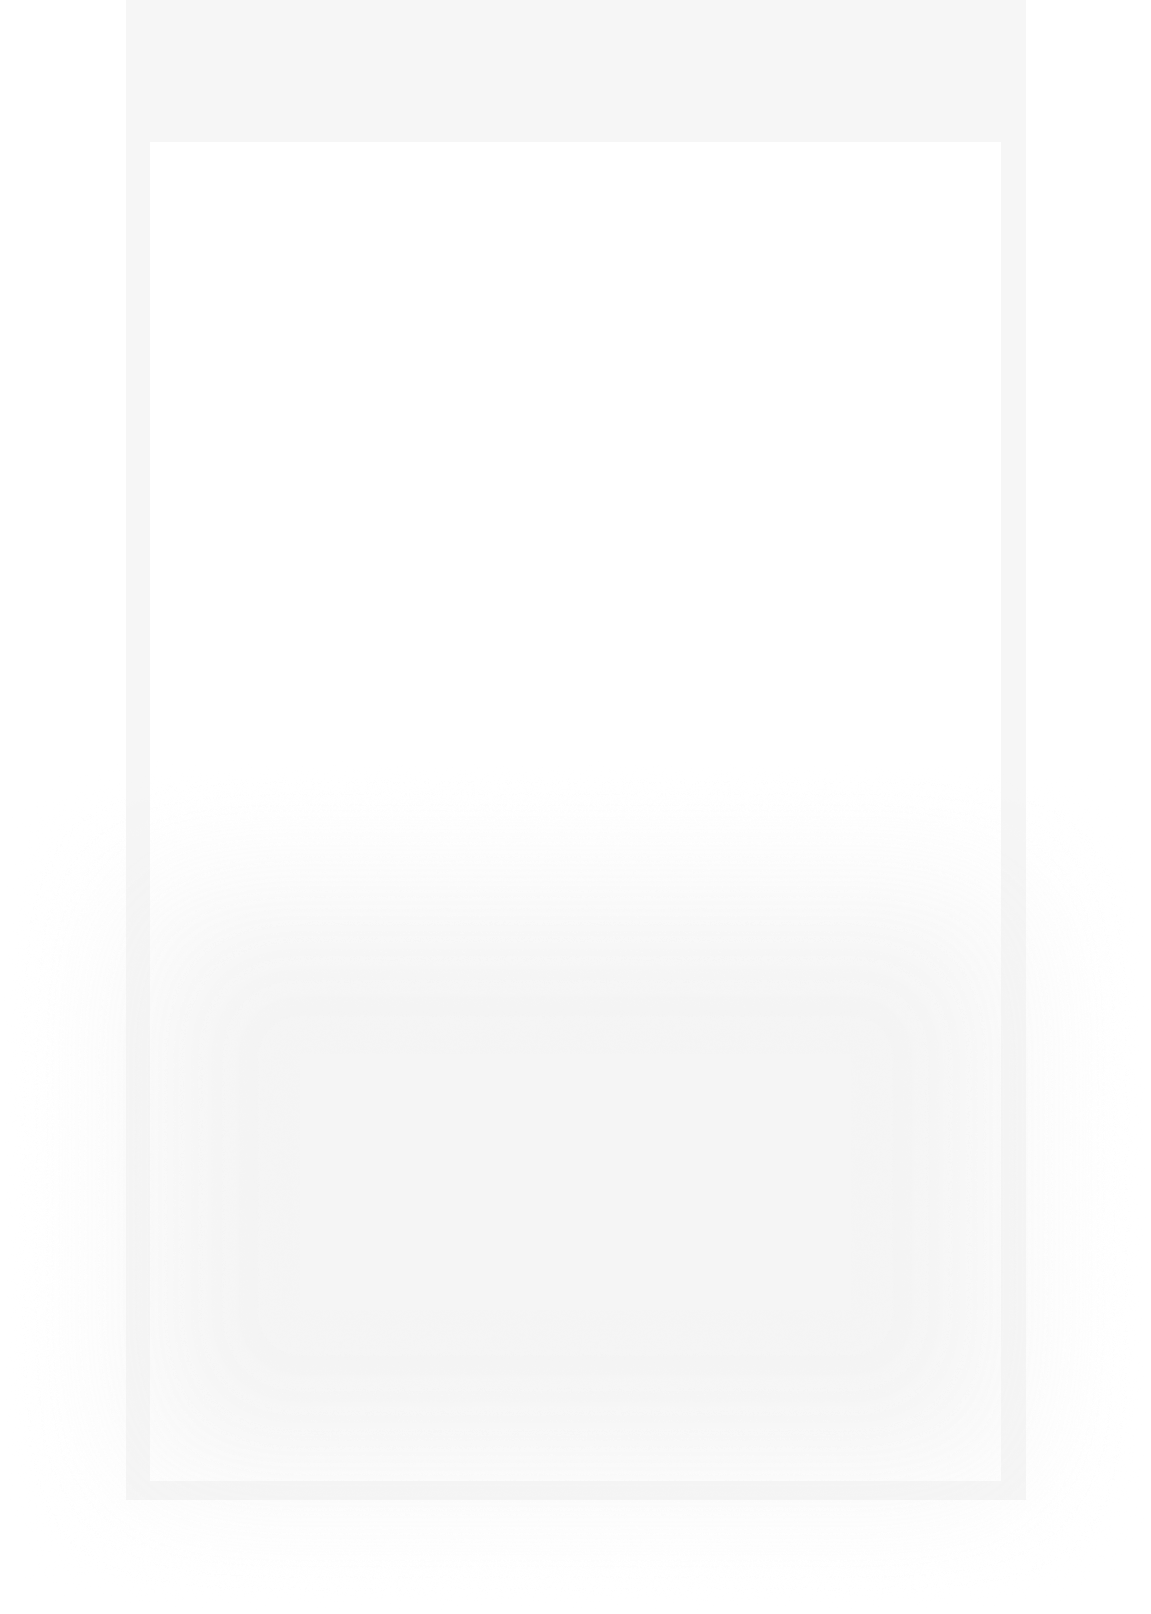
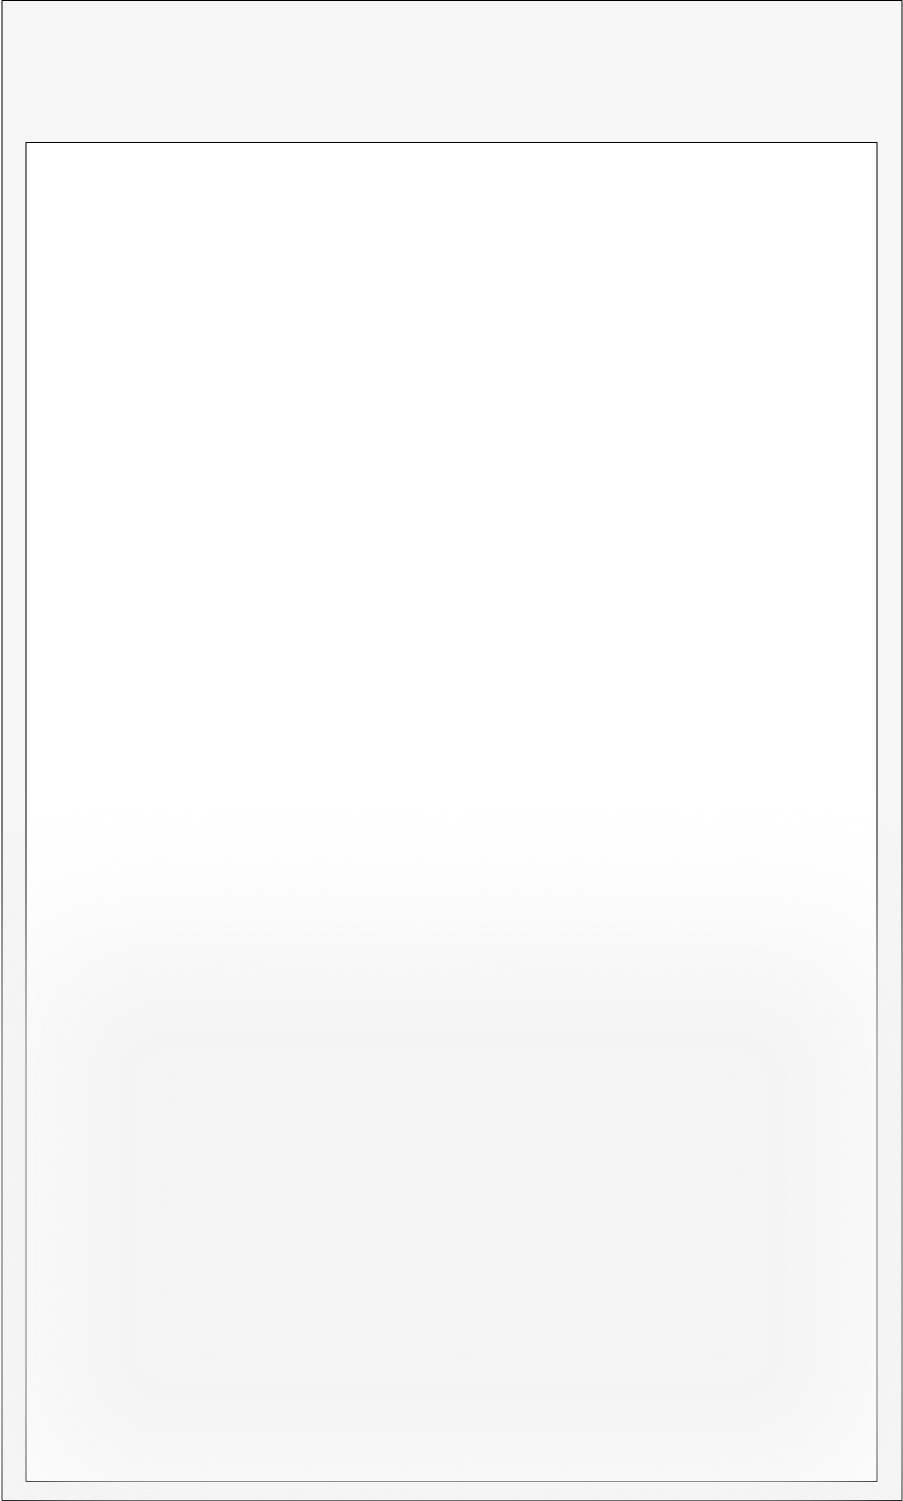
Fix blur frame: correct asset path and stretch to fill card

Changed region(s): [[0.9922, 0.0, 1.0, 1.0], [0.0, 0.0919, 0.031, 1.0]]

diff --git a/components/autograph-card-frame.tsx b/components/autograph-card-frame.tsx
@@ -32,9 +32,9 @@ export function DisplayCardFrame({ frameId = 'classic' }: { frameId?: 'blur' | '
     return (
       <View style={[StyleSheet.absoluteFill, { zIndex: 15, elevation: 15 }]} pointerEvents="none">
         <Image
-          source={require('../assets/images/blur-card-frame.png')}
+          source={require('../assets/images/[email redacted]')}
           style={{ width: '100%', height: '100%' }}
-          resizeMode="contain"
+          resizeMode="stretch"
         />
       </View>
     );